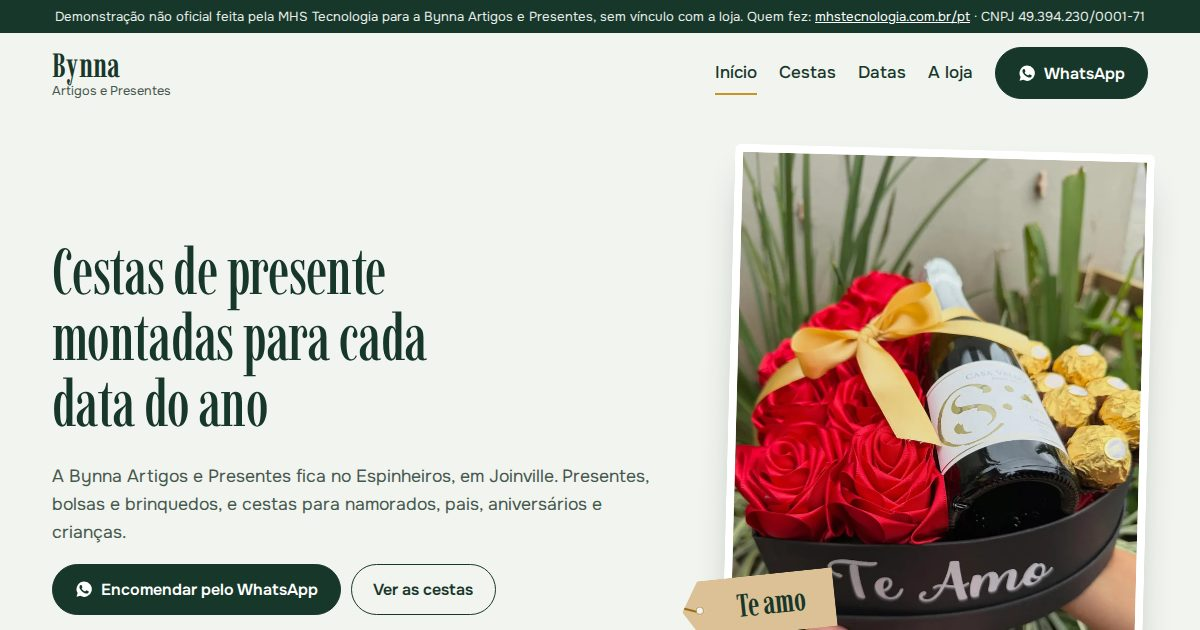
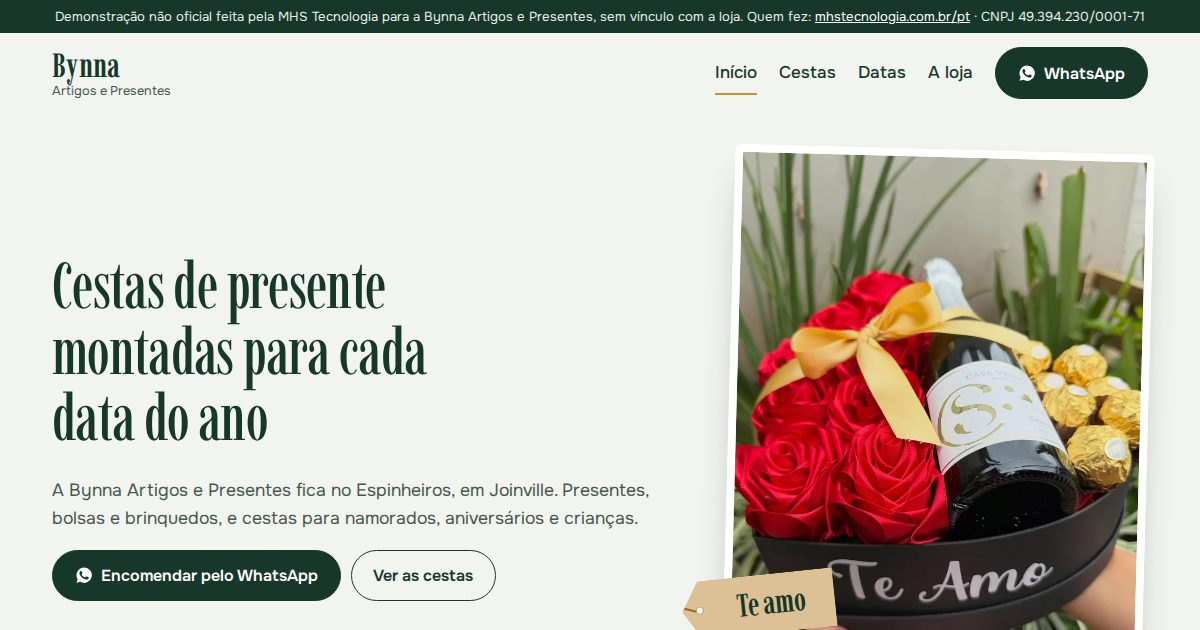
Previews: 182 ativos

Changed region(s): [[0.0308, 0.3921, 0.555, 0.9952]]

diff --git a/bynna-presentes-joinville-sc/cestas.html b/bynna-presentes-joinville-sc/cestas.html
@@ -30,57 +30,51 @@
 <section class="pag-cab">
   <div class="caixa">
     <h1>Cestas e presentes</h1>
-    <p class="sub">Cestas que a Bynna já montou, separadas por data. Toque na foto para ver maior e peça uma parecida pelo WhatsApp.</p>
-    <nav class="pulos" aria-label="Datas"><a href="#namorados">Dia dos Namorados</a><a href="#mimos">Mimos</a><a href="#aniversario">Aniversário e bodas</a><a href="#infantis">Cestas infantis</a></nav>
+    <p class="sub">Cestas que a Bynna já montou. Toque na foto para ver maior e peça uma parecida pelo WhatsApp.</p>
   </div>
 </section>
 <div class="caixa">
-<section class="grupo" id="namorados" aria-labelledby="t-namorados">
-  <div class="grupo-cab"><span class="etiqueta "><span>Dia dos Namorados</span></span><h2 id="t-namorados" class="vh">Dia dos Namorados</h2><a class="lk" href="https://wa.me/5547992592411?text=Oi%2C%20Bynna!%20Vi%20o%20site%20e%20queria%20uma%20cesta%20para%20o%20Dia%20dos%20Namorados.">Encomendar para o Dia dos Namorados</a></div>
-  <ul class="pecas"><li class="peca">
-  <button class="abre" type="button" data-foto="te-amo-rosas" data-titulo="Caixa “Te amo” com rosas e espumante" data-pedido="a caixa Te amo com rosas e espumante" data-alt="Caixa preta escrita “Te amo”, com rosas vermelhas, espumante e bombons, com laço dourado" aria-haspopup="dialog" aria-label="Ampliar foto: Caixa “Te amo” com rosas e espumante"><img src="img/te-amo-rosas-800.webp" srcset="img/te-amo-rosas-400.webp 400w, img/te-amo-rosas-800.webp 800w, img/te-amo-rosas-1200.webp 1200w" sizes="(min-width: 1100px) 540px, (min-width: 700px) 46vw, 86vw" width="1200" height="1600" alt="Caixa preta escrita “Te amo”, com rosas vermelhas, espumante e bombons, com laço dourado" loading="lazy" decoding="async"></button>
+<h2 class="vh">Fotos das cestas</h2>
+<ul class="pecas pecas-3 grade-cestas"><li class="peca">
+  <span class="etiqueta mini peca-cat"><span>Dia dos Namorados</span></span>
+  <button class="abre" type="button" data-foto="te-amo-rosas" data-titulo="Caixa “Te amo” com rosas e espumante" data-pedido="a caixa Te amo com rosas e espumante" data-alt="Caixa preta escrita “Te amo”, com rosas vermelhas, espumante e bombons, com laço dourado" aria-haspopup="dialog" aria-label="Ampliar foto: Caixa “Te amo” com rosas e espumante"><img src="img/te-amo-rosas-800.webp" srcset="img/te-amo-rosas-400.webp 400w, img/te-amo-rosas-800.webp 800w, img/te-amo-rosas-1200.webp 1200w" sizes="(min-width: 1100px) 355px, (min-width: 700px) 30vw, calc(100vw - 32px)" width="1200" height="1600" alt="Caixa preta escrita “Te amo”, com rosas vermelhas, espumante e bombons, com laço dourado" loading="lazy" decoding="async"></button>
   <p class="peca-nome">Caixa “Te amo” com rosas e espumante</p>
   <a class="lk-wa" href="https://wa.me/5547992592411?text=Oi%2C%20Bynna!%20Vi%20no%20site%20a%20caixa%20Te%20amo%20com%20rosas%20e%20espumante%20e%20queria%20um%20presente%20parecido."><svg class="ico" viewBox="0 0 24 24" aria-hidden="true"><path fill="currentColor" d="M12 2a10 10 0 0 0-8.6 15.1L2 22l5-1.3A10 10 0 1 0 12 2Zm5.7 14.2c-.2.7-1.4 1.3-2 1.4-.5.1-1.2.1-1.9-.1-.4-.1-1-.3-1.7-.6-3-1.3-4.9-4.3-5.1-4.5-.1-.2-1.2-1.6-1.2-3 0-1.4.8-2.1 1-2.4.3-.3.6-.4.8-.4h.6c.2 0 .4 0 .6.5l.8 2c.1.2.1.4 0 .6l-.3.5-.4.5c-.1.1-.3.3-.1.6.2.3.8 1.3 1.7 2.1 1.2 1 2.1 1.4 2.4 1.5.3.1.5.1.7-.1l.9-1.1c.2-.3.4-.2.7-.1l1.9.9c.3.1.5.2.6.3.1.2.1.8-.1 1.4Z"/></svg>Quero uma assim</a>
 </li>
 <li class="peca">
-  <button class="abre" type="button" data-foto="coracao-rosas" data-titulo="Coração de rosas e bombons" data-pedido="o coração de rosas e bombons" data-alt="Caixa em forma de coração com rosas vermelhas, bombons dourados e laço vermelho" aria-haspopup="dialog" aria-label="Ampliar foto: Coração de rosas e bombons"><img src="img/coracao-rosas-800.webp" srcset="img/coracao-rosas-400.webp 400w, img/coracao-rosas-800.webp 800w, img/coracao-rosas-1200.webp 1200w" sizes="(min-width: 1100px) 540px, (min-width: 700px) 46vw, 86vw" width="1200" height="1600" alt="Caixa em forma de coração com rosas vermelhas, bombons dourados e laço vermelho" loading="lazy" decoding="async"></button>
+  <span class="etiqueta mini peca-cat"><span>Dia dos Namorados</span></span>
+  <button class="abre" type="button" data-foto="coracao-rosas" data-titulo="Coração de rosas e bombons" data-pedido="o coração de rosas e bombons" data-alt="Caixa em forma de coração com rosas vermelhas, bombons dourados e laço vermelho" aria-haspopup="dialog" aria-label="Ampliar foto: Coração de rosas e bombons"><img src="img/coracao-rosas-800.webp" srcset="img/coracao-rosas-400.webp 400w, img/coracao-rosas-800.webp 800w, img/coracao-rosas-1200.webp 1200w" sizes="(min-width: 1100px) 355px, (min-width: 700px) 30vw, calc(100vw - 32px)" width="1200" height="1600" alt="Caixa em forma de coração com rosas vermelhas, bombons dourados e laço vermelho" loading="lazy" decoding="async"></button>
   <p class="peca-nome">Coração de rosas e bombons</p>
   <a class="lk-wa" href="https://wa.me/5547992592411?text=Oi%2C%20Bynna!%20Vi%20no%20site%20o%20cora%C3%A7%C3%A3o%20de%20rosas%20e%20bombons%20e%20queria%20um%20presente%20parecido."><svg class="ico" viewBox="0 0 24 24" aria-hidden="true"><path fill="currentColor" d="M12 2a10 10 0 0 0-8.6 15.1L2 22l5-1.3A10 10 0 1 0 12 2Zm5.7 14.2c-.2.7-1.4 1.3-2 1.4-.5.1-1.2.1-1.9-.1-.4-.1-1-.3-1.7-.6-3-1.3-4.9-4.3-5.1-4.5-.1-.2-1.2-1.6-1.2-3 0-1.4.8-2.1 1-2.4.3-.3.6-.4.8-.4h.6c.2 0 .4 0 .6.5l.8 2c.1.2.1.4 0 .6l-.3.5-.4.5c-.1.1-.3.3-.1.6.2.3.8 1.3 1.7 2.1 1.2 1 2.1 1.4 2.4 1.5.3.1.5.1.7-.1l.9-1.1c.2-.3.4-.2.7-.1l1.9.9c.3.1.5.2.6.3.1.2.1.8-.1 1.4Z"/></svg>Quero uma assim</a>
-</li></ul>
-</section>
-<section class="grupo" id="mimos" aria-labelledby="t-mimos">
-  <div class="grupo-cab"><span class="etiqueta "><span>Mimos</span></span><h2 id="t-mimos" class="vh">Mimos</h2><a class="lk" href="https://wa.me/5547992592411?text=Oi%2C%20Bynna!%20Vi%20o%20site%20e%20queria%20encomendar%20um%20mimo.">Encomendar um mimo</a></div>
-  <ul class="pecas"><li class="peca">
-  <button class="abre" type="button" data-foto="caixinha-flora" data-titulo="Caixinha “Pra florir o seu dia!”" data-pedido="a caixinha Pra florir o seu dia" data-alt="Caixinha rosa estampada com flores, com perfume, flor seca e enfeite de flor dourado" aria-haspopup="dialog" aria-label="Ampliar foto: Caixinha “Pra florir o seu dia!”"><img src="img/caixinha-flora-800.webp" srcset="img/caixinha-flora-400.webp 400w, img/caixinha-flora-800.webp 800w, img/caixinha-flora-1200.webp 1200w" sizes="(min-width: 1100px) 540px, (min-width: 700px) 46vw, 86vw" width="1200" height="1264" alt="Caixinha rosa estampada com flores, com perfume, flor seca e enfeite de flor dourado" loading="lazy" decoding="async"></button>
+</li>
+<li class="peca">
+  <span class="etiqueta mini peca-cat"><span>Mimos</span></span>
+  <button class="abre" type="button" data-foto="caixinha-flora" data-titulo="Caixinha “Pra florir o seu dia!”" data-pedido="a caixinha Pra florir o seu dia" data-alt="Caixinha rosa estampada com flores, com perfume, flor seca e enfeite de flor dourado" aria-haspopup="dialog" aria-label="Ampliar foto: Caixinha “Pra florir o seu dia!”"><img src="img/caixinha-flora-800.webp" srcset="img/caixinha-flora-400.webp 400w, img/caixinha-flora-800.webp 800w, img/caixinha-flora-1200.webp 1200w" sizes="(min-width: 1100px) 355px, (min-width: 700px) 30vw, calc(100vw - 32px)" width="1200" height="1264" alt="Caixinha rosa estampada com flores, com perfume, flor seca e enfeite de flor dourado" loading="lazy" decoding="async"></button>
   <p class="peca-nome">Caixinha “Pra florir o seu dia!”</p>
   <a class="lk-wa" href="https://wa.me/5547992592411?text=Oi%2C%20Bynna!%20Vi%20no%20site%20a%20caixinha%20Pra%20florir%20o%20seu%20dia%20e%20queria%20um%20presente%20parecido."><svg class="ico" viewBox="0 0 24 24" aria-hidden="true"><path fill="currentColor" d="M12 2a10 10 0 0 0-8.6 15.1L2 22l5-1.3A10 10 0 1 0 12 2Zm5.7 14.2c-.2.7-1.4 1.3-2 1.4-.5.1-1.2.1-1.9-.1-.4-.1-1-.3-1.7-.6-3-1.3-4.9-4.3-5.1-4.5-.1-.2-1.2-1.6-1.2-3 0-1.4.8-2.1 1-2.4.3-.3.6-.4.8-.4h.6c.2 0 .4 0 .6.5l.8 2c.1.2.1.4 0 .6l-.3.5-.4.5c-.1.1-.3.3-.1.6.2.3.8 1.3 1.7 2.1 1.2 1 2.1 1.4 2.4 1.5.3.1.5.1.7-.1l.9-1.1c.2-.3.4-.2.7-.1l1.9.9c.3.1.5.2.6.3.1.2.1.8-.1 1.4Z"/></svg>Quero uma assim</a>
-</li></ul>
-</section>
-<section class="grupo" id="aniversario" aria-labelledby="t-aniversario">
-  <div class="grupo-cab"><span class="etiqueta "><span>Aniversário e bodas</span></span><h2 id="t-aniversario" class="vh">Aniversário e bodas</h2><a class="lk" href="https://wa.me/5547992592411?text=Oi%2C%20Bynna!%20Vi%20o%20site%20e%20queria%20um%20presente%20de%20anivers%C3%A1rio%20ou%20de%20bodas.">Encomendar para aniversário ou bodas</a></div>
-  <ul class="pecas"><li class="peca">
-  <button class="abre" type="button" data-foto="caneca-aniversario" data-titulo="Caneca “Feliz aniversário”" data-pedido="a caneca de feliz aniversário" data-alt="Caneca “Feliz aniversário” com chocolates e colônia, embrulhada em papel de seda" aria-haspopup="dialog" aria-label="Ampliar foto: Caneca “Feliz aniversário”"><img src="img/caneca-aniversario-800.webp" srcset="img/caneca-aniversario-400.webp 400w, img/caneca-aniversario-800.webp 800w, img/caneca-aniversario-1200.webp 1200w" sizes="(min-width: 1100px) 540px, (min-width: 700px) 46vw, 86vw" width="1200" height="1600" alt="Caneca “Feliz aniversário” com chocolates e colônia, embrulhada em papel de seda" loading="lazy" decoding="async"></button>
+</li>
+<li class="peca">
+  <span class="etiqueta mini peca-cat"><span>Aniversário e bodas</span></span>
+  <button class="abre" type="button" data-foto="caneca-aniversario" data-titulo="Caneca “Feliz aniversário”" data-pedido="a caneca de feliz aniversário" data-alt="Caneca “Feliz aniversário” com chocolates e colônia, embrulhada em papel de seda" aria-haspopup="dialog" aria-label="Ampliar foto: Caneca “Feliz aniversário”"><img src="img/caneca-aniversario-800.webp" srcset="img/caneca-aniversario-400.webp 400w, img/caneca-aniversario-800.webp 800w, img/caneca-aniversario-1200.webp 1200w" sizes="(min-width: 1100px) 355px, (min-width: 700px) 30vw, calc(100vw - 32px)" width="1200" height="1600" alt="Caneca “Feliz aniversário” com chocolates e colônia, embrulhada em papel de seda" loading="lazy" decoding="async"></button>
   <p class="peca-nome">Caneca “Feliz aniversário”</p>
   <a class="lk-wa" href="https://wa.me/5547992592411?text=Oi%2C%20Bynna!%20Vi%20no%20site%20a%20caneca%20de%20feliz%20anivers%C3%A1rio%20e%20queria%20um%20presente%20parecido."><svg class="ico" viewBox="0 0 24 24" aria-hidden="true"><path fill="currentColor" d="M12 2a10 10 0 0 0-8.6 15.1L2 22l5-1.3A10 10 0 1 0 12 2Zm5.7 14.2c-.2.7-1.4 1.3-2 1.4-.5.1-1.2.1-1.9-.1-.4-.1-1-.3-1.7-.6-3-1.3-4.9-4.3-5.1-4.5-.1-.2-1.2-1.6-1.2-3 0-1.4.8-2.1 1-2.4.3-.3.6-.4.8-.4h.6c.2 0 .4 0 .6.5l.8 2c.1.2.1.4 0 .6l-.3.5-.4.5c-.1.1-.3.3-.1.6.2.3.8 1.3 1.7 2.1 1.2 1 2.1 1.4 2.4 1.5.3.1.5.1.7-.1l.9-1.1c.2-.3.4-.2.7-.1l1.9.9c.3.1.5.2.6.3.1.2.1.8-.1 1.4Z"/></svg>Quero uma assim</a>
 </li>
 <li class="peca">
-  <button class="abre" type="button" data-foto="bodas-de-ouro" data-titulo="Par de canecas de Bodas de Ouro" data-pedido="o par de canecas de Bodas de Ouro" data-alt="Caixa com duas canecas douradas de Bodas de Ouro, uma com o número 50 e outra escrita Amor" aria-haspopup="dialog" aria-label="Ampliar foto: Par de canecas de Bodas de Ouro"><img src="img/bodas-de-ouro-800.webp" srcset="img/bodas-de-ouro-400.webp 400w, img/bodas-de-ouro-800.webp 800w, img/bodas-de-ouro-1200.webp 1200w" sizes="(min-width: 1100px) 540px, (min-width: 700px) 46vw, 86vw" width="1200" height="900" alt="Caixa com duas canecas douradas de Bodas de Ouro, uma com o número 50 e outra escrita Amor" loading="lazy" decoding="async"></button>
+  <span class="etiqueta mini peca-cat"><span>Aniversário e bodas</span></span>
+  <button class="abre" type="button" data-foto="bodas-de-ouro" data-titulo="Par de canecas de Bodas de Ouro" data-pedido="o par de canecas de Bodas de Ouro" data-alt="Caixa com duas canecas douradas de Bodas de Ouro, uma com o número 50 e outra escrita Amor" aria-haspopup="dialog" aria-label="Ampliar foto: Par de canecas de Bodas de Ouro"><img src="img/bodas-de-ouro-800.webp" srcset="img/bodas-de-ouro-400.webp 400w, img/bodas-de-ouro-800.webp 800w, img/bodas-de-ouro-1200.webp 1200w" sizes="(min-width: 1100px) 355px, (min-width: 700px) 30vw, calc(100vw - 32px)" width="1200" height="900" alt="Caixa com duas canecas douradas de Bodas de Ouro, uma com o número 50 e outra escrita Amor" loading="lazy" decoding="async"></button>
   <p class="peca-nome">Par de canecas de Bodas de Ouro</p>
   <a class="lk-wa" href="https://wa.me/5547992592411?text=Oi%2C%20Bynna!%20Vi%20no%20site%20o%20par%20de%20canecas%20de%20Bodas%20de%20Ouro%20e%20queria%20um%20presente%20parecido."><svg class="ico" viewBox="0 0 24 24" aria-hidden="true"><path fill="currentColor" d="M12 2a10 10 0 0 0-8.6 15.1L2 22l5-1.3A10 10 0 1 0 12 2Zm5.7 14.2c-.2.7-1.4 1.3-2 1.4-.5.1-1.2.1-1.9-.1-.4-.1-1-.3-1.7-.6-3-1.3-4.9-4.3-5.1-4.5-.1-.2-1.2-1.6-1.2-3 0-1.4.8-2.1 1-2.4.3-.3.6-.4.8-.4h.6c.2 0 .4 0 .6.5l.8 2c.1.2.1.4 0 .6l-.3.5-.4.5c-.1.1-.3.3-.1.6.2.3.8 1.3 1.7 2.1 1.2 1 2.1 1.4 2.4 1.5.3.1.5.1.7-.1l.9-1.1c.2-.3.4-.2.7-.1l1.9.9c.3.1.5.2.6.3.1.2.1.8-.1 1.4Z"/></svg>Quero uma assim</a>
-</li></ul>
-</section>
-<section class="grupo" id="infantis" aria-labelledby="t-infantis">
-  <div class="grupo-cab"><span class="etiqueta "><span>Cestas infantis</span></span><h2 id="t-infantis" class="vh">Cestas infantis</h2><a class="lk" href="https://wa.me/5547992592411?text=Oi%2C%20Bynna!%20Vi%20o%20site%20e%20queria%20uma%20cesta%20infantil.">Encomendar uma cesta infantil</a></div>
-  <ul class="pecas"><li class="peca">
-  <button class="abre" type="button" data-foto="cesta-dino" data-titulo="Cesta com dinossauro de pelúcia" data-pedido="a cesta com dinossauro de pelúcia" data-alt="Cesta de vime com dinossauro verde de pelúcia, balas e chocolates" aria-haspopup="dialog" aria-label="Ampliar foto: Cesta com dinossauro de pelúcia"><img src="img/cesta-dino-800.webp" srcset="img/cesta-dino-400.webp 400w, img/cesta-dino-800.webp 800w, img/cesta-dino-1200.webp 1200w" sizes="(min-width: 1100px) 540px, (min-width: 700px) 46vw, 86vw" width="1200" height="1600" alt="Cesta de vime com dinossauro verde de pelúcia, balas e chocolates" loading="lazy" decoding="async"></button>
+</li>
+<li class="peca">
+  <span class="etiqueta mini peca-cat"><span>Cestas infantis</span></span>
+  <button class="abre" type="button" data-foto="cesta-dino" data-titulo="Cesta com dinossauro de pelúcia" data-pedido="a cesta com dinossauro de pelúcia" data-alt="Cesta de vime com dinossauro verde de pelúcia, balas e chocolates" aria-haspopup="dialog" aria-label="Ampliar foto: Cesta com dinossauro de pelúcia"><img src="img/cesta-dino-800.webp" srcset="img/cesta-dino-400.webp 400w, img/cesta-dino-800.webp 800w, img/cesta-dino-1200.webp 1200w" sizes="(min-width: 1100px) 355px, (min-width: 700px) 30vw, calc(100vw - 32px)" width="1200" height="1600" alt="Cesta de vime com dinossauro verde de pelúcia, balas e chocolates" loading="lazy" decoding="async"></button>
   <p class="peca-nome">Cesta com dinossauro de pelúcia</p>
   <a class="lk-wa" href="https://wa.me/5547992592411?text=Oi%2C%20Bynna!%20Vi%20no%20site%20a%20cesta%20com%20dinossauro%20de%20pel%C3%BAcia%20e%20queria%20um%20presente%20parecido."><svg class="ico" viewBox="0 0 24 24" aria-hidden="true"><path fill="currentColor" d="M12 2a10 10 0 0 0-8.6 15.1L2 22l5-1.3A10 10 0 1 0 12 2Zm5.7 14.2c-.2.7-1.4 1.3-2 1.4-.5.1-1.2.1-1.9-.1-.4-.1-1-.3-1.7-.6-3-1.3-4.9-4.3-5.1-4.5-.1-.2-1.2-1.6-1.2-3 0-1.4.8-2.1 1-2.4.3-.3.6-.4.8-.4h.6c.2 0 .4 0 .6.5l.8 2c.1.2.1.4 0 .6l-.3.5-.4.5c-.1.1-.3.3-.1.6.2.3.8 1.3 1.7 2.1 1.2 1 2.1 1.4 2.4 1.5.3.1.5.1.7-.1l.9-1.1c.2-.3.4-.2.7-.1l1.9.9c.3.1.5.2.6.3.1.2.1.8-.1 1.4Z"/></svg>Quero uma assim</a>
 </li></ul>
-</section>
 <section class="outras">
-  <h2>Páscoa, Dia das Mães, Natal e times</h2>
-  <p>No Instagram, a loja também separa destaques de Páscoa, Dia das Mães, Natal e times. Para essas datas, peça pelo WhatsApp e combine com a loja.</p>
-  <p><a class="btn btn-p" href="https://wa.me/5547992592411?text=Oi%2C%20Bynna!%20Vi%20o%20site%20e%20queria%20encomendar%20uma%20cesta%20de%20presente."><svg class="ico" viewBox="0 0 24 24" aria-hidden="true"><path fill="currentColor" d="M12 2a10 10 0 0 0-8.6 15.1L2 22l5-1.3A10 10 0 1 0 12 2Zm5.7 14.2c-.2.7-1.4 1.3-2 1.4-.5.1-1.2.1-1.9-.1-.4-.1-1-.3-1.7-.6-3-1.3-4.9-4.3-5.1-4.5-.1-.2-1.2-1.6-1.2-3 0-1.4.8-2.1 1-2.4.3-.3.6-.4.8-.4h.6c.2 0 .4 0 .6.5l.8 2c.1.2.1.4 0 .6l-.3.5-.4.5c-.1.1-.3.3-.1.6.2.3.8 1.3 1.7 2.1 1.2 1 2.1 1.4 2.4 1.5.3.1.5.1.7-.1l.9-1.1c.2-.3.4-.2.7-.1l1.9.9c.3.1.5.2.6.3.1.2.1.8-.1 1.4Z"/></svg>Encomendar pelo WhatsApp</a></p>
+  <h2>Encomendar para uma data</h2>
+  <p>No Instagram, a loja também separa destaques de Páscoa, Dia das Mães, Dia dos Pais, Natal e times. Escolha a ocasião e combine o resto com a loja pelo WhatsApp.</p>
+  <ul class="ocasioes"><li><a href="https://wa.me/5547992592411?text=Oi%2C%20Bynna!%20Vi%20o%20site%20e%20queria%20uma%20cesta%20para%20o%20Dia%20dos%20Namorados."><svg class="ico" viewBox="0 0 24 24" aria-hidden="true"><path fill="currentColor" d="M12 2a10 10 0 0 0-8.6 15.1L2 22l5-1.3A10 10 0 1 0 12 2Zm5.7 14.2c-.2.7-1.4 1.3-2 1.4-.5.1-1.2.1-1.9-.1-.4-.1-1-.3-1.7-.6-3-1.3-4.9-4.3-5.1-4.5-.1-.2-1.2-1.6-1.2-3 0-1.4.8-2.1 1-2.4.3-.3.6-.4.8-.4h.6c.2 0 .4 0 .6.5l.8 2c.1.2.1.4 0 .6l-.3.5-.4.5c-.1.1-.3.3-.1.6.2.3.8 1.3 1.7 2.1 1.2 1 2.1 1.4 2.4 1.5.3.1.5.1.7-.1l.9-1.1c.2-.3.4-.2.7-.1l1.9.9c.3.1.5.2.6.3.1.2.1.8-.1 1.4Z"/></svg>Encomendar para o Dia dos Namorados</a></li><li><a href="https://wa.me/5547992592411?text=Oi%2C%20Bynna!%20Vi%20o%20site%20e%20queria%20encomendar%20um%20mimo."><svg class="ico" viewBox="0 0 24 24" aria-hidden="true"><path fill="currentColor" d="M12 2a10 10 0 0 0-8.6 15.1L2 22l5-1.3A10 10 0 1 0 12 2Zm5.7 14.2c-.2.7-1.4 1.3-2 1.4-.5.1-1.2.1-1.9-.1-.4-.1-1-.3-1.7-.6-3-1.3-4.9-4.3-5.1-4.5-.1-.2-1.2-1.6-1.2-3 0-1.4.8-2.1 1-2.4.3-.3.6-.4.8-.4h.6c.2 0 .4 0 .6.5l.8 2c.1.2.1.4 0 .6l-.3.5-.4.5c-.1.1-.3.3-.1.6.2.3.8 1.3 1.7 2.1 1.2 1 2.1 1.4 2.4 1.5.3.1.5.1.7-.1l.9-1.1c.2-.3.4-.2.7-.1l1.9.9c.3.1.5.2.6.3.1.2.1.8-.1 1.4Z"/></svg>Encomendar um mimo</a></li><li><a href="https://wa.me/5547992592411?text=Oi%2C%20Bynna!%20Vi%20o%20site%20e%20queria%20um%20presente%20de%20anivers%C3%A1rio%20ou%20de%20bodas."><svg class="ico" viewBox="0 0 24 24" aria-hidden="true"><path fill="currentColor" d="M12 2a10 10 0 0 0-8.6 15.1L2 22l5-1.3A10 10 0 1 0 12 2Zm5.7 14.2c-.2.7-1.4 1.3-2 1.4-.5.1-1.2.1-1.9-.1-.4-.1-1-.3-1.7-.6-3-1.3-4.9-4.3-5.1-4.5-.1-.2-1.2-1.6-1.2-3 0-1.4.8-2.1 1-2.4.3-.3.6-.4.8-.4h.6c.2 0 .4 0 .6.5l.8 2c.1.2.1.4 0 .6l-.3.5-.4.5c-.1.1-.3.3-.1.6.2.3.8 1.3 1.7 2.1 1.2 1 2.1 1.4 2.4 1.5.3.1.5.1.7-.1l.9-1.1c.2-.3.4-.2.7-.1l1.9.9c.3.1.5.2.6.3.1.2.1.8-.1 1.4Z"/></svg>Encomendar para aniversário ou bodas</a></li><li><a href="https://wa.me/5547992592411?text=Oi%2C%20Bynna!%20Vi%20o%20site%20e%20queria%20uma%20cesta%20infantil."><svg class="ico" viewBox="0 0 24 24" aria-hidden="true"><path fill="currentColor" d="M12 2a10 10 0 0 0-8.6 15.1L2 22l5-1.3A10 10 0 1 0 12 2Zm5.7 14.2c-.2.7-1.4 1.3-2 1.4-.5.1-1.2.1-1.9-.1-.4-.1-1-.3-1.7-.6-3-1.3-4.9-4.3-5.1-4.5-.1-.2-1.2-1.6-1.2-3 0-1.4.8-2.1 1-2.4.3-.3.6-.4.8-.4h.6c.2 0 .4 0 .6.5l.8 2c.1.2.1.4 0 .6l-.3.5-.4.5c-.1.1-.3.3-.1.6.2.3.8 1.3 1.7 2.1 1.2 1 2.1 1.4 2.4 1.5.3.1.5.1.7-.1l.9-1.1c.2-.3.4-.2.7-.1l1.9.9c.3.1.5.2.6.3.1.2.1.8-.1 1.4Z"/></svg>Encomendar uma cesta infantil</a></li><li><a href="https://wa.me/5547992592411?text=Oi%2C%20Bynna!%20Vi%20o%20site%20e%20queria%20encomendar%20uma%20cesta%20de%20presente."><svg class="ico" viewBox="0 0 24 24" aria-hidden="true"><path fill="currentColor" d="M12 2a10 10 0 0 0-8.6 15.1L2 22l5-1.3A10 10 0 1 0 12 2Zm5.7 14.2c-.2.7-1.4 1.3-2 1.4-.5.1-1.2.1-1.9-.1-.4-.1-1-.3-1.7-.6-3-1.3-4.9-4.3-5.1-4.5-.1-.2-1.2-1.6-1.2-3 0-1.4.8-2.1 1-2.4.3-.3.6-.4.8-.4h.6c.2 0 .4 0 .6.5l.8 2c.1.2.1.4 0 .6l-.3.5-.4.5c-.1.1-.3.3-.1.6.2.3.8 1.3 1.7 2.1 1.2 1 2.1 1.4 2.4 1.5.3.1.5.1.7-.1l.9-1.1c.2-.3.4-.2.7-.1l1.9.9c.3.1.5.2.6.3.1.2.1.8-.1 1.4Z"/></svg>Outra data</a></li></ul>
 </section>
 </div>
 </main>

diff --git a/bynna-presentes-joinville-sc/index.html b/bynna-presentes-joinville-sc/index.html
@@ -40,7 +40,7 @@
   <div class="caixa heroi-grade">
     <div class="heroi-txt">
       <h1>Cestas de presente montadas para cada data do ano</h1>
-      <p class="sub">A Bynna Artigos e Presentes fica no Espinheiros, em Joinville. Presentes, bolsas e brinquedos, e cestas para namorados, pais, aniversários e crianças.</p>
+      <p class="sub">A Bynna Artigos e Presentes fica no Espinheiros, em Joinville. Presentes, bolsas e brinquedos, e cestas para namorados, aniversários e crianças.</p>
       <div class="acoes" id="cta">
         <a class="btn btn-p" href="https://wa.me/5547992592411?text=Oi%2C%20Bynna!%20Vi%20o%20site%20e%20queria%20encomendar%20uma%20cesta%20de%20presente."><svg class="ico" viewBox="0 0 24 24" aria-hidden="true"><path fill="currentColor" d="M12 2a10 10 0 0 0-8.6 15.1L2 22l5-1.3A10 10 0 1 0 12 2Zm5.7 14.2c-.2.7-1.4 1.3-2 1.4-.5.1-1.2.1-1.9-.1-.4-.1-1-.3-1.7-.6-3-1.3-4.9-4.3-5.1-4.5-.1-.2-1.2-1.6-1.2-3 0-1.4.8-2.1 1-2.4.3-.3.6-.4.8-.4h.6c.2 0 .4 0 .6.5l.8 2c.1.2.1.4 0 .6l-.3.5-.4.5c-.1.1-.3.3-.1.6.2.3.8 1.3 1.7 2.1 1.2 1 2.1 1.4 2.4 1.5.3.1.5.1.7-.1l.9-1.1c.2-.3.4-.2.7-.1l1.9.9c.3.1.5.2.6.3.1.2.1.8-.1 1.4Z"/></svg>Encomendar pelo WhatsApp</a>
         <a class="btn btn-s" href="cestas.html">Ver as cestas</a>
@@ -81,7 +81,7 @@
       <span class="no-quando">12 de junho</span>
       <span class="no-nome">Dia dos Namorados</span>
       <span class="no-proxima"><span class="etiqueta mini"><span>Próxima data</span></span></span>
-      <span class="no-acoes"><a href="cestas.html#namorados">Ver as cestas</a><a href="https://wa.me/5547992592411?text=Oi%2C%20Bynna!%20Vi%20o%20site%20e%20queria%20um%20presente%20para%20o%20Dia%20dos%20Namorados.">Encomendar</a></span>
+      <span class="no-acoes"><a href="cestas.html">Ver as cestas</a><a href="https://wa.me/5547992592411?text=Oi%2C%20Bynna!%20Vi%20o%20site%20e%20queria%20um%20presente%20para%20o%20Dia%20dos%20Namorados.">Encomendar</a></span>
     </li>
     <li class="no" data-ate="8">
       <span class="no-laco" aria-hidden="true"></span>
@@ -104,27 +104,24 @@
   <div class="caixa">
     <h2 id="vit-t">Algumas cestas montadas pela Bynna</h2>
     <p class="intro">Toque na foto para ver maior. Gostou de uma? Peça uma parecida pelo WhatsApp.</p>
-    <section class="grupo" aria-labelledby="g-namorados">
-    <div class="grupo-cab"><span class="etiqueta "><span>Dia dos Namorados</span></span><h3 id="g-namorados" class="vh">Dia dos Namorados</h3><a class="lk" href="cestas.html#namorados">Ver mais cestas</a></div>
-    <ul class="pecas"><li class="peca">
-  <button class="abre" type="button" data-foto="te-amo-rosas" data-titulo="Caixa “Te amo” com rosas e espumante" data-pedido="a caixa Te amo com rosas e espumante" data-alt="Caixa preta escrita “Te amo”, com rosas vermelhas, espumante e bombons, com laço dourado" aria-haspopup="dialog" aria-label="Ampliar foto: Caixa “Te amo” com rosas e espumante"><img src="img/te-amo-rosas-800.webp" srcset="img/te-amo-rosas-400.webp 400w, img/te-amo-rosas-800.webp 800w, img/te-amo-rosas-1200.webp 1200w" sizes="(min-width: 1100px) 540px, (min-width: 700px) 46vw, 86vw" width="1200" height="1600" alt="Caixa preta escrita “Te amo”, com rosas vermelhas, espumante e bombons, com laço dourado" loading="lazy" decoding="async"></button>
+    <ul class="pecas pecas-3"><li class="peca">
+  <span class="etiqueta mini peca-cat"><span>Dia dos Namorados</span></span>
+  <button class="abre" type="button" data-foto="te-amo-rosas" data-titulo="Caixa “Te amo” com rosas e espumante" data-pedido="a caixa Te amo com rosas e espumante" data-alt="Caixa preta escrita “Te amo”, com rosas vermelhas, espumante e bombons, com laço dourado" aria-haspopup="dialog" aria-label="Ampliar foto: Caixa “Te amo” com rosas e espumante"><img src="img/te-amo-rosas-800.webp" srcset="img/te-amo-rosas-400.webp 400w, img/te-amo-rosas-800.webp 800w, img/te-amo-rosas-1200.webp 1200w" sizes="(min-width: 1100px) 355px, (min-width: 700px) 30vw, calc(100vw - 32px)" width="1200" height="1600" alt="Caixa preta escrita “Te amo”, com rosas vermelhas, espumante e bombons, com laço dourado" loading="lazy" decoding="async"></button>
   <p class="peca-nome">Caixa “Te amo” com rosas e espumante</p>
   <a class="lk-wa" href="https://wa.me/5547992592411?text=Oi%2C%20Bynna!%20Vi%20no%20site%20a%20caixa%20Te%20amo%20com%20rosas%20e%20espumante%20e%20queria%20um%20presente%20parecido."><svg class="ico" viewBox="0 0 24 24" aria-hidden="true"><path fill="currentColor" d="M12 2a10 10 0 0 0-8.6 15.1L2 22l5-1.3A10 10 0 1 0 12 2Zm5.7 14.2c-.2.7-1.4 1.3-2 1.4-.5.1-1.2.1-1.9-.1-.4-.1-1-.3-1.7-.6-3-1.3-4.9-4.3-5.1-4.5-.1-.2-1.2-1.6-1.2-3 0-1.4.8-2.1 1-2.4.3-.3.6-.4.8-.4h.6c.2 0 .4 0 .6.5l.8 2c.1.2.1.4 0 .6l-.3.5-.4.5c-.1.1-.3.3-.1.6.2.3.8 1.3 1.7 2.1 1.2 1 2.1 1.4 2.4 1.5.3.1.5.1.7-.1l.9-1.1c.2-.3.4-.2.7-.1l1.9.9c.3.1.5.2.6.3.1.2.1.8-.1 1.4Z"/></svg>Quero uma assim</a>
 </li>
 <li class="peca">
-  <button class="abre" type="button" data-foto="coracao-rosas" data-titulo="Coração de rosas e bombons" data-pedido="o coração de rosas e bombons" data-alt="Caixa em forma de coração com rosas vermelhas, bombons dourados e laço vermelho" aria-haspopup="dialog" aria-label="Ampliar foto: Coração de rosas e bombons"><img src="img/coracao-rosas-800.webp" srcset="img/coracao-rosas-400.webp 400w, img/coracao-rosas-800.webp 800w, img/coracao-rosas-1200.webp 1200w" sizes="(min-width: 1100px) 540px, (min-width: 700px) 46vw, 86vw" width="1200" height="1600" alt="Caixa em forma de coração com rosas vermelhas, bombons dourados e laço vermelho" loading="lazy" decoding="async"></button>
-  <p class="peca-nome">Coração de rosas e bombons</p>
-  <a class="lk-wa" href="https://wa.me/5547992592411?text=Oi%2C%20Bynna!%20Vi%20no%20site%20o%20cora%C3%A7%C3%A3o%20de%20rosas%20e%20bombons%20e%20queria%20um%20presente%20parecido."><svg class="ico" viewBox="0 0 24 24" aria-hidden="true"><path fill="currentColor" d="M12 2a10 10 0 0 0-8.6 15.1L2 22l5-1.3A10 10 0 1 0 12 2Zm5.7 14.2c-.2.7-1.4 1.3-2 1.4-.5.1-1.2.1-1.9-.1-.4-.1-1-.3-1.7-.6-3-1.3-4.9-4.3-5.1-4.5-.1-.2-1.2-1.6-1.2-3 0-1.4.8-2.1 1-2.4.3-.3.6-.4.8-.4h.6c.2 0 .4 0 .6.5l.8 2c.1.2.1.4 0 .6l-.3.5-.4.5c-.1.1-.3.3-.1.6.2.3.8 1.3 1.7 2.1 1.2 1 2.1 1.4 2.4 1.5.3.1.5.1.7-.1l.9-1.1c.2-.3.4-.2.7-.1l1.9.9c.3.1.5.2.6.3.1.2.1.8-.1 1.4Z"/></svg>Quero uma assim</a>
+  <span class="etiqueta mini peca-cat"><span>Aniversário e bodas</span></span>
+  <button class="abre" type="button" data-foto="caneca-aniversario" data-titulo="Caneca “Feliz aniversário”" data-pedido="a caneca de feliz aniversário" data-alt="Caneca “Feliz aniversário” com chocolates e colônia, embrulhada em papel de seda" aria-haspopup="dialog" aria-label="Ampliar foto: Caneca “Feliz aniversário”"><img src="img/caneca-aniversario-800.webp" srcset="img/caneca-aniversario-400.webp 400w, img/caneca-aniversario-800.webp 800w, img/caneca-aniversario-1200.webp 1200w" sizes="(min-width: 1100px) 355px, (min-width: 700px) 30vw, calc(100vw - 32px)" width="1200" height="1600" alt="Caneca “Feliz aniversário” com chocolates e colônia, embrulhada em papel de seda" loading="lazy" decoding="async"></button>
+  <p class="peca-nome">Caneca “Feliz aniversário”</p>
+  <a class="lk-wa" href="https://wa.me/5547992592411?text=Oi%2C%20Bynna!%20Vi%20no%20site%20a%20caneca%20de%20feliz%20anivers%C3%A1rio%20e%20queria%20um%20presente%20parecido."><svg class="ico" viewBox="0 0 24 24" aria-hidden="true"><path fill="currentColor" d="M12 2a10 10 0 0 0-8.6 15.1L2 22l5-1.3A10 10 0 1 0 12 2Zm5.7 14.2c-.2.7-1.4 1.3-2 1.4-.5.1-1.2.1-1.9-.1-.4-.1-1-.3-1.7-.6-3-1.3-4.9-4.3-5.1-4.5-.1-.2-1.2-1.6-1.2-3 0-1.4.8-2.1 1-2.4.3-.3.6-.4.8-.4h.6c.2 0 .4 0 .6.5l.8 2c.1.2.1.4 0 .6l-.3.5-.4.5c-.1.1-.3.3-.1.6.2.3.8 1.3 1.7 2.1 1.2 1 2.1 1.4 2.4 1.5.3.1.5.1.7-.1l.9-1.1c.2-.3.4-.2.7-.1l1.9.9c.3.1.5.2.6.3.1.2.1.8-.1 1.4Z"/></svg>Quero uma assim</a>
+</li>
+<li class="peca">
+  <span class="etiqueta mini peca-cat"><span>Cestas infantis</span></span>
+  <button class="abre" type="button" data-foto="cesta-dino" data-titulo="Cesta com dinossauro de pelúcia" data-pedido="a cesta com dinossauro de pelúcia" data-alt="Cesta de vime com dinossauro verde de pelúcia, balas e chocolates" aria-haspopup="dialog" aria-label="Ampliar foto: Cesta com dinossauro de pelúcia"><img src="img/cesta-dino-800.webp" srcset="img/cesta-dino-400.webp 400w, img/cesta-dino-800.webp 800w, img/cesta-dino-1200.webp 1200w" sizes="(min-width: 1100px) 355px, (min-width: 700px) 30vw, calc(100vw - 32px)" width="1200" height="1600" alt="Cesta de vime com dinossauro verde de pelúcia, balas e chocolates" loading="lazy" decoding="async"></button>
+  <p class="peca-nome">Cesta com dinossauro de pelúcia</p>
+  <a class="lk-wa" href="https://wa.me/5547992592411?text=Oi%2C%20Bynna!%20Vi%20no%20site%20a%20cesta%20com%20dinossauro%20de%20pel%C3%BAcia%20e%20queria%20um%20presente%20parecido."><svg class="ico" viewBox="0 0 24 24" aria-hidden="true"><path fill="currentColor" d="M12 2a10 10 0 0 0-8.6 15.1L2 22l5-1.3A10 10 0 1 0 12 2Zm5.7 14.2c-.2.7-1.4 1.3-2 1.4-.5.1-1.2.1-1.9-.1-.4-.1-1-.3-1.7-.6-3-1.3-4.9-4.3-5.1-4.5-.1-.2-1.2-1.6-1.2-3 0-1.4.8-2.1 1-2.4.3-.3.6-.4.8-.4h.6c.2 0 .4 0 .6.5l.8 2c.1.2.1.4 0 .6l-.3.5-.4.5c-.1.1-.3.3-.1.6.2.3.8 1.3 1.7 2.1 1.2 1 2.1 1.4 2.4 1.5.3.1.5.1.7-.1l.9-1.1c.2-.3.4-.2.7-.1l1.9.9c.3.1.5.2.6.3.1.2.1.8-.1 1.4Z"/></svg>Quero uma assim</a>
 </li></ul>
-  </section>
-<section class="grupo" aria-labelledby="g-mimos">
-    <div class="grupo-cab"><span class="etiqueta "><span>Mimos</span></span><h3 id="g-mimos" class="vh">Mimos</h3><a class="lk" href="cestas.html#mimos">Ver mais cestas</a></div>
-    <ul class="pecas"><li class="peca">
-  <button class="abre" type="button" data-foto="caixinha-flora" data-titulo="Caixinha “Pra florir o seu dia!”" data-pedido="a caixinha Pra florir o seu dia" data-alt="Caixinha rosa estampada com flores, com perfume, flor seca e enfeite de flor dourado" aria-haspopup="dialog" aria-label="Ampliar foto: Caixinha “Pra florir o seu dia!”"><img src="img/caixinha-flora-800.webp" srcset="img/caixinha-flora-400.webp 400w, img/caixinha-flora-800.webp 800w, img/caixinha-flora-1200.webp 1200w" sizes="(min-width: 1100px) 540px, (min-width: 700px) 46vw, 86vw" width="1200" height="1264" alt="Caixinha rosa estampada com flores, com perfume, flor seca e enfeite de flor dourado" loading="lazy" decoding="async"></button>
-  <p class="peca-nome">Caixinha “Pra florir o seu dia!”</p>
-  <a class="lk-wa" href="https://wa.me/5547992592411?text=Oi%2C%20Bynna!%20Vi%20no%20site%20a%20caixinha%20Pra%20florir%20o%20seu%20dia%20e%20queria%20um%20presente%20parecido."><svg class="ico" viewBox="0 0 24 24" aria-hidden="true"><path fill="currentColor" d="M12 2a10 10 0 0 0-8.6 15.1L2 22l5-1.3A10 10 0 1 0 12 2Zm5.7 14.2c-.2.7-1.4 1.3-2 1.4-.5.1-1.2.1-1.9-.1-.4-.1-1-.3-1.7-.6-3-1.3-4.9-4.3-5.1-4.5-.1-.2-1.2-1.6-1.2-3 0-1.4.8-2.1 1-2.4.3-.3.6-.4.8-.4h.6c.2 0 .4 0 .6.5l.8 2c.1.2.1.4 0 .6l-.3.5-.4.5c-.1.1-.3.3-.1.6.2.3.8 1.3 1.7 2.1 1.2 1 2.1 1.4 2.4 1.5.3.1.5.1.7-.1l.9-1.1c.2-.3.4-.2.7-.1l1.9.9c.3.1.5.2.6.3.1.2.1.8-.1 1.4Z"/></svg>Quero uma assim</a>
-</li></ul>
-  </section>
     <p class="mais"><a class="btn btn-s" href="cestas.html">Ver todas as cestas</a></p>
   </div>
 </section>

diff --git a/bynna-presentes-joinville-sc/estilo.css b/bynna-presentes-joinville-sc/estilo.css
@@ -31,7 +31,8 @@ p{margin:0 0 1em}
 .topo{display:flex;align-items:center;justify-content:space-between;gap:16px;max-width:var(--max);margin:0 auto;padding:14px var(--pad)}
 .marca{display:flex;flex-direction:column;text-decoration:none;line-height:1}
 .marca-nome{font-family:"Imbue",Georgia,serif;font-size:2.1rem;font-weight:600;letter-spacing:.01em}
-.marca-sub{font-size:.8rem;color:var(--tinta-2);margin-top:2px}
+.marca-sub{font-size:.8rem;color:var(--tinta-2);margin-top:2px;white-space:nowrap}
+@media (max-width:399px){.marca-sub{display:none}}
 .nav{display:flex;align-items:center;gap:22px}
 .nav > a:not(.nav-wa){text-decoration:none;font-weight:500;padding:.4em 0;border-bottom:2px solid transparent}
 .nav > a[aria-current]{border-bottom-color:var(--fita)}
@@ -115,7 +116,14 @@ p{margin:0 0 1em}
 .peca-nome{font-weight:600;margin:.7em 0 .15em}
 .lk-wa{display:inline-flex;align-items:center;gap:.4em;font-weight:500;color:var(--tinta-2);text-underline-offset:3px;padding:.35em 0;align-self:flex-start}
 .lk-wa:hover{color:var(--tinta)}
-@media (min-width:700px){.pecas{grid-template-columns:repeat(2,1fr);gap:24px}}
+@media (min-width:700px){.pecas{grid-template-columns:repeat(2,1fr);gap:24px}.pecas-3{grid-template-columns:repeat(3,1fr)}}
+.vitrine .pecas-3{margin-top:30px}
+.grade-cestas{margin:26px 0 10px}
+.peca{position:relative}
+.peca-cat{position:absolute;z-index:2;left:-6px;top:14px;pointer-events:none}
+.ocasioes{list-style:none;padding:0;margin:0;display:flex;flex-wrap:wrap;gap:10px}
+.ocasioes a{display:inline-flex;align-items:center;gap:.45em;font-weight:600;text-decoration:none;padding:.7em 1.1em;border:1.5px solid var(--tinta);border-radius:999px}
+.ocasioes a:hover{background:var(--papel)}
 .mais{margin-top:36px}
 
 /* faixa da loja */
